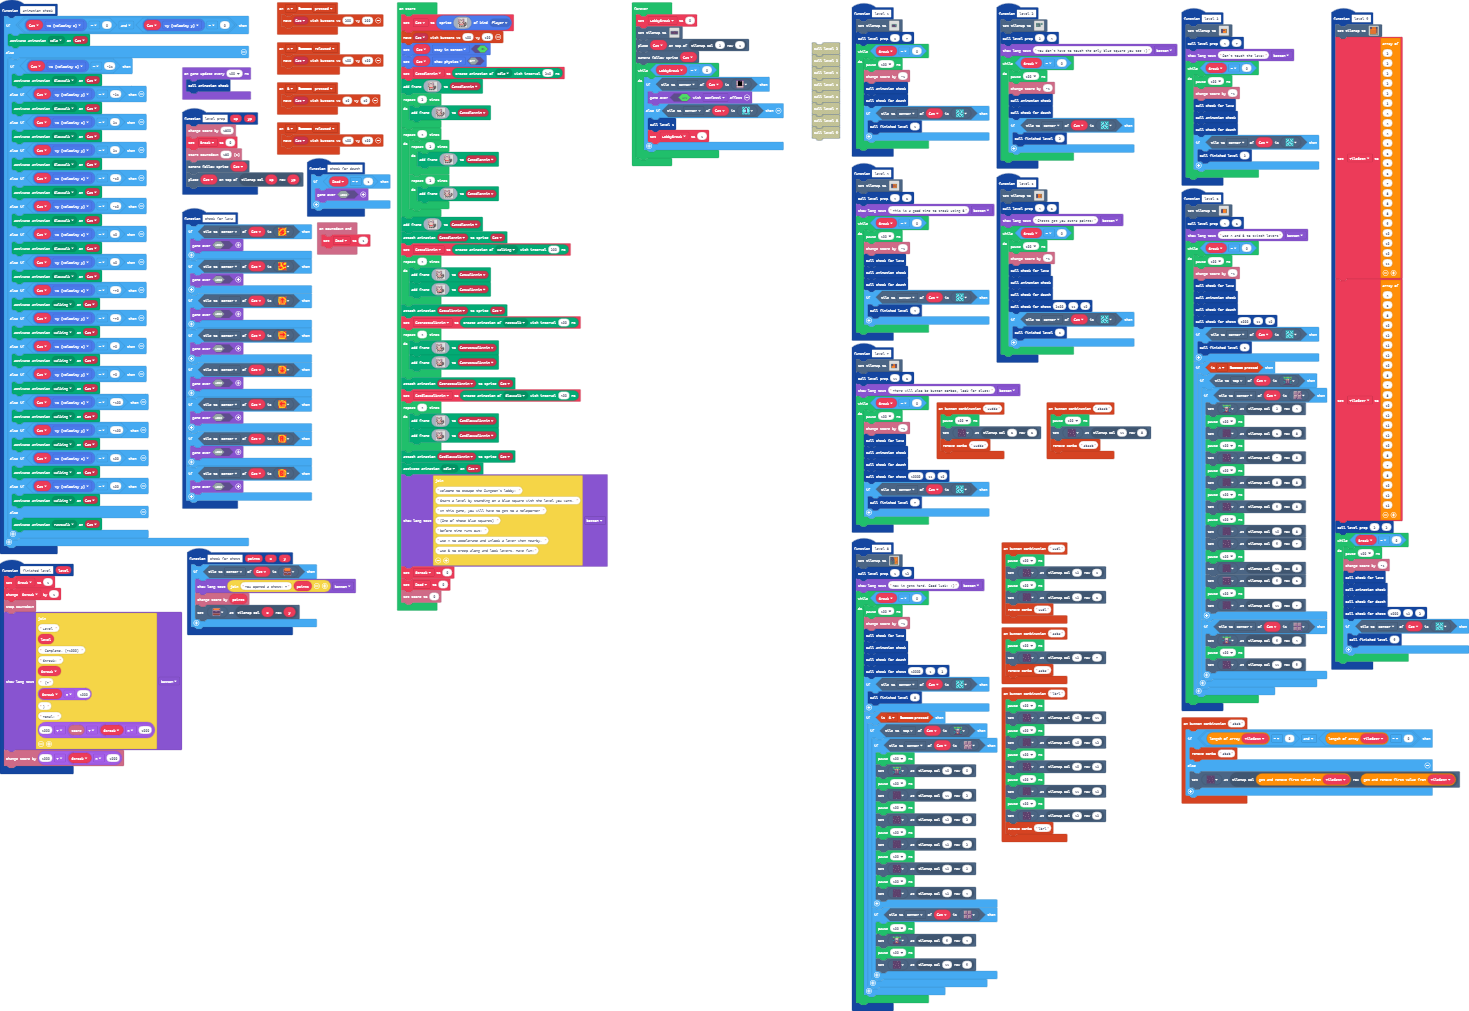
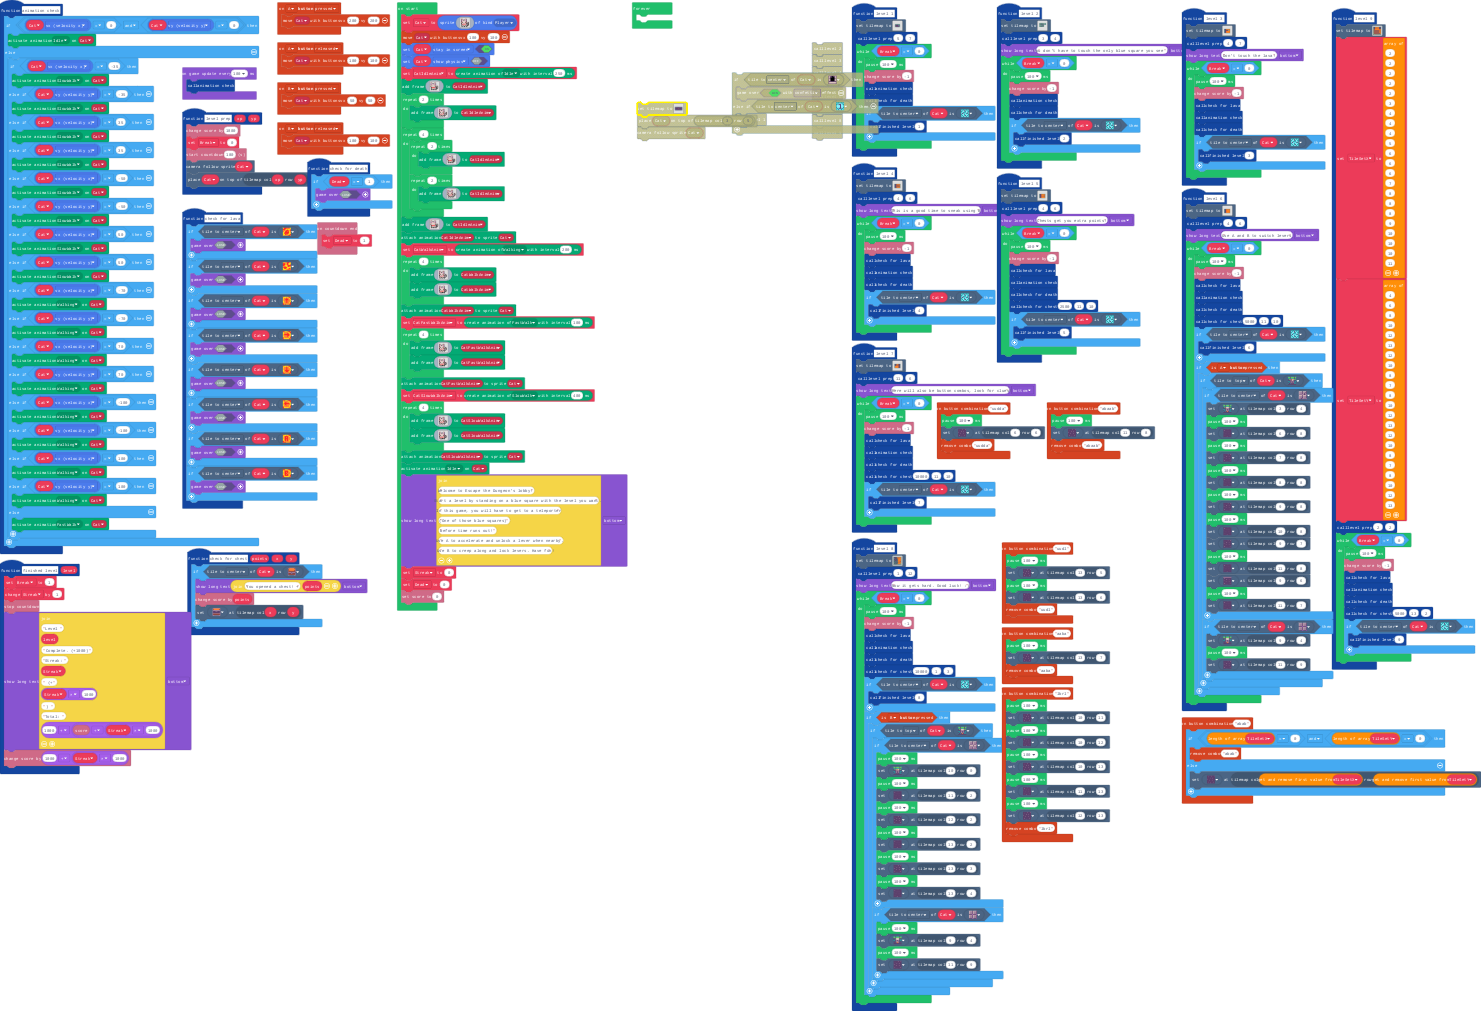
Update main.blocks, main.ts

diff --git a/main.ts b/main.ts
@@ -982,7 +982,6 @@ controller.combos.attachCombo("abaab", function () {
     tiles.setTileAt(tiles.getTileLocation(11, 8), sprites.dungeon.darkGroundCenter)
     controller.combos.detachCombo("abaab")
 })
-let LobbyBreak = 0
 let TileSetY: number[] = []
 let TileSetX: number[] = []
 let Break = 0
@@ -1215,38 +1214,5 @@ game.onUpdateInterval(100, function () {
     animation_check()
 })
 forever(function () {
-    LobbyBreak = 0
-    tiles.setTilemap(tiles.createTilemap(
[1 lines of base64/hex data omitted]
-            img`
-2 2 2 2 2 2 2 2 2 2 2 2 2 2 2 2 2 2 2 2 2 2 2 2 2 2 2 2 2 2 2 2 
-2 2 2 2 2 2 2 2 2 2 2 2 2 2 2 2 2 2 2 2 2 2 2 2 2 2 2 2 2 2 2 2 
-2 2 . . . . . . . . . . . . . . . . . . . . . . . . . . . . 2 2 
-2 2 . . . . . . . . . . . . . . . . . . . . . . . . . . . . 2 2 
-2 2 . . . . . . . . . . . . . . . . . . . . . . . . . . . . 2 2 
-2 2 . . . . . . . . . . . . . . . . . . . . . . . . . . . . 2 2 
-2 2 . . . . . . . . . . . . . . . . . . . . . . . . . . . . 2 2 
-2 2 . . . . . . . . . . . . . 2 2 . . . . . . . . . . . . . 2 2 
-2 2 . . . . . . . . . . . . . 2 2 . . . . . . . . . . . . . 2 2 
-2 2 . . . . . . . . . . . . . . . . . . . . . . . . . . . . 2 2 
-2 2 . . . . . . . . . . . . . . . . . . . . . . . . . . . . 2 2 
-2 2 . . . . . . . . . . . . . . . . . . . . . . . . . . . . 2 2 
-2 2 . . . . . . . . . . . . . . . . . . . . . . . . . . . . 2 2 
-2 2 . . . . . . . . . . . . . . . . . . . . . . . . . . . . 2 2 
-2 2 2 2 2 2 2 2 2 2 2 2 2 2 2 . . 2 2 2 2 2 2 2 2 2 2 2 2 2 2 2 
-2 2 2 2 2 2 2 2 2 2 2 2 2 2 2 2 2 2 2 2 2 2 2 2 2 2 2 2 2 2 2 2 
-`,
-            [myTiles.tile0,myTiles.tile1,myTiles.tile2,myTiles.tile4,myTiles.tile6,myTiles.tile7,myTiles.tile8,sprites.dungeon.greenOuterNorthWest,sprites.dungeon.greenOuterNorth0,sprites.dungeon.greenOuterNorthEast,sprites.dungeon.greenOuterSouthWest,sprites.dungeon.greenOuterSouthEast,sprites.dungeon.greenOuterWest0,sprites.dungeon.greenOuterSouth1,sprites.dungeon.greenOuterEast0,sprites.dungeon.greenOuterSouth0,sprites.dungeon.greenOuterEast1,sprites.dungeon.greenOuterWest1,sprites.dungeon.greenOuterNorth1,sprites.dungeon.darkGroundCenter,sprites.dungeon.darkGroundWest,sprites.dungeon.greenOuterNorth2,sprites.dungeon.greenOuterEast2,sprites.dungeon.greenOuterSouth2,sprites.dungeon.greenOuterWest2,sprites.dungeon.darkGroundNorthWest1,sprites.dungeon.darkGroundNorthEast1,sprites.dungeon.darkGroundSouth,sprites.dungeon.collectibleRedCrystal,sprites.dungeon.collectibleInsignia,sprites.dungeon.darkGroundEast,sprites.dungeon.darkGroundNorth,sprites.dungeon.darkGroundSouthEast1,sprites.dungeon.darkGroundSouthWest1,sprites.dungeon.hazardLava0,sprites.dungeon.hazardLava1,myTiles.tile9,myTiles.tile10,myTiles.tile11,myTiles.tile12,myTiles.tile13,myTiles.tile14,myTiles.tile15,myTiles.tile16,myTiles.tile17,myTiles.tile18,myTiles.tile19,myTiles.tile20,myTiles.tile21,myTiles.tile22,myTiles.tile23,myTiles.tile24,sprites.dungeon.stairLadder,sprites.dungeon.stairNorth,sprites.dungeon.doorOpenSouth,sprites.dungeon.doorClosedSouth,sprites.dungeon.doorLockedSouth,sprites.dungeon.stairSouth,sprites.castle.tilePath5],
-            TileScale.Sixteen
-        ))
-    tiles.placeOnTile(Cat, tiles.getTileLocation(3, 5))
-    scene.cameraFollowSprite(Cat)
-    while (LobbyBreak == 0) {
-        if (Cat.tileKindAt(TileDirection.Center, sprites.dungeon.doorOpenSouth)) {
-            game.over(true, effects.confetti)
-        } else if (Cat.tileKindAt(TileDirection.Center, myTiles.tile9)) {
-            level_1()
-            LobbyBreak = 1
-        }
-    }
+	
 })
